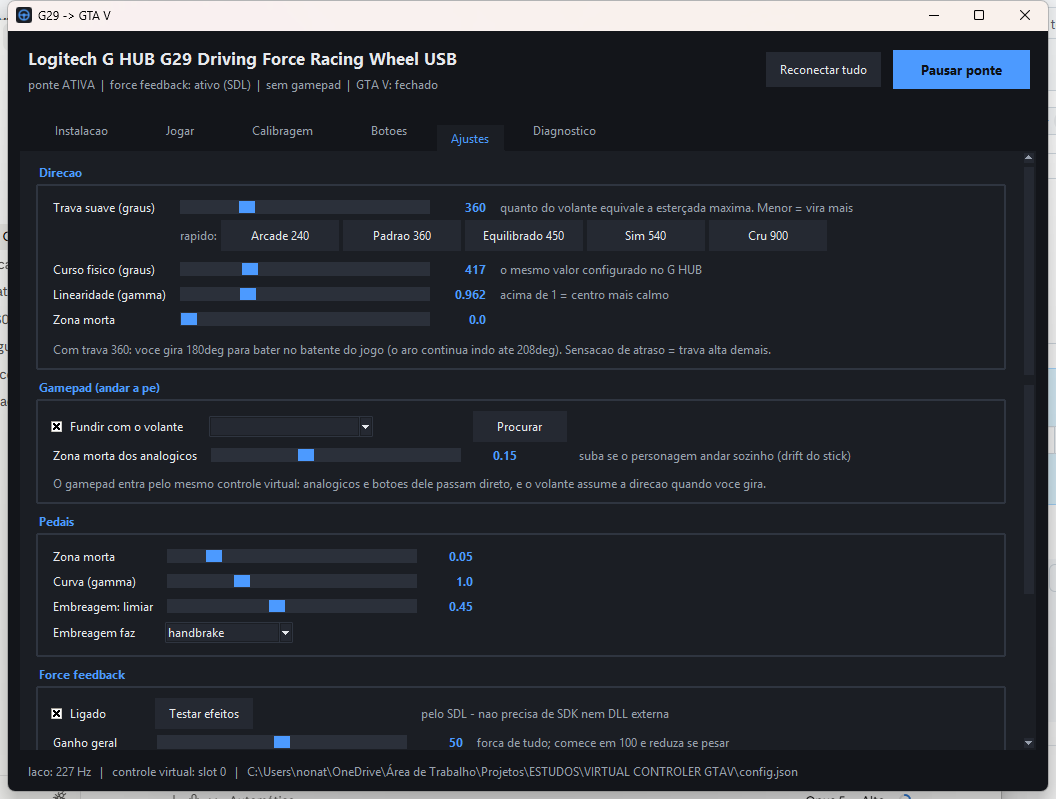
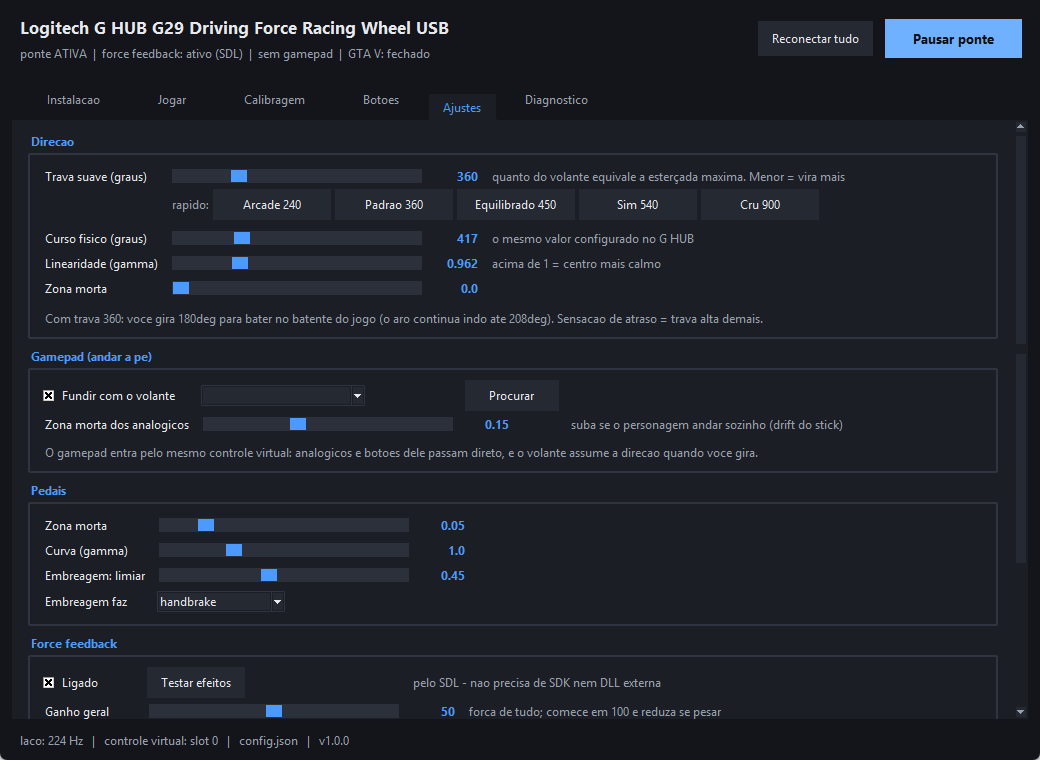
Versao 1.0.0: pacote baixavel e capturas limpas
- numero de versao no codigo (VERSAO), no titulo da janela, no rodape e na
  aba Instalacao; o zip passa a se chamar pela versao em vez da data, para
  quem baixa saber se tem a mais nova
- o zip e gerado dentro do projeto e versionado, ficando baixavel direto
- capturas refeitas so com a area util, sem a barra de titulo do Windows
- rodape deixa de mostrar o caminho completo do config.json: ele carrega o
  nome de usuario do Windows, que acabava em captura de tela publica

diff --git a/g29_gui.py b/g29_gui.py
@@ -24,7 +24,7 @@ sys.path.insert(0, os.path.dirname(os.path.abspath(__file__)))
 
 from g29_gtav import (  # noqa: E402
     BUTTON_NAMES, CONFIG_PATH, DEFAULT_CONFIG, Gamepad, SdlFFB, VirtualPad,
-    Wheel, carregar_estado, clamp, gravar_estado, inicio_do_processo,
+    VERSAO, Wheel, carregar_estado, clamp, gravar_estado, inicio_do_processo,
     deduzir_repouso, graus_girados, janela_do_jogo, joystick_conectado,
     load_config, map_pedal, map_steering, save_config, xinput_lib, xinput_read,
     xinput_slots,
@@ -900,7 +900,7 @@ class PainelBotoes:
 class App(tk.Tk):
     def __init__(self):
         super().__init__()
-        self.title("G29 -> GTA V")
+        self.title(f"Virtual Controller GTA V  v{VERSAO}")
         self.minsize(900, 560)
         self.configure(bg=COR_JANELA)
         self._aplicar_icone()
@@ -1142,6 +1142,10 @@ class App(tk.Tk):
         pagina = AreaRolavel(self.abas)
         self.abas.add(pagina, text="  Instalacao  ")
         aba = pagina.interno
+
+        ttk.Label(aba, style="Dica.TLabel",
+                  text=f"Virtual Controller GTA V - versao {VERSAO}"
+                  ).pack(anchor="w", pady=(0, 8))
 
         grupo = ttk.LabelFrame(aba, text=" Situacao deste computador ",
                                padding=(14, 10))
@@ -2033,9 +2037,11 @@ class App(tk.Tk):
         elif time.time() >= getattr(self, "_status_ate", 0):
             slot = self.worker.slot_nosso
             onde = f"slot {slot}" if slot is not None else "sem controle"
+            # so o nome do arquivo: o caminho completo carrega o nome de
+            # usuario do Windows, e isso acaba em capturas de tela publicas
             self.var_status.set(
                 f"laco: {inst['hz']:.0f} Hz   |   controle virtual: {onde}"
-                f"   |   {CONFIG_PATH}")
+                f"   |   {os.path.basename(CONFIG_PATH)}   |   v{VERSAO}")
 
         self._id_tick = self.after(33, self._tick)
 

diff --git a/empacotar.py b/empacotar.py
@@ -18,9 +18,10 @@ from __future__ import annotations
 import os
 import sys
 import zipfile
-from datetime import date
 
 AQUI = os.path.dirname(os.path.abspath(__file__))
+sys.path.insert(0, AQUI)
+from g29_gtav import VERSAO  # noqa: E402
 
 # Um atalho so. Os .bat numerados (instalar, calibrar, jogar) saiam do pacote
 # de proposito: quatro arquivos na pasta confundem quem nao e tecnico, e nao ha
@@ -45,8 +46,12 @@ def main() -> int:
         return 1
 
     pasta = "VIRTUAL CONTROLER GTAV"
-    nome = f"{pasta} {date.today():%Y-%m-%d}.zip"
-    destino = os.path.join(os.path.dirname(AQUI), nome)
+    # versao no nome, nao data: quem baixa precisa saber se tem a versao mais
+    # nova, e uma data nao diz isso sem ir conferir o repositorio
+    nome = f"{pasta} v{VERSAO}.zip"
+    # dentro do proprio projeto: assim o zip e versionado junto e fica
+    # baixavel direto pelo GitHub, sem depender de anexo de release
+    destino = os.path.join(AQUI, nome)
 
     with zipfile.ZipFile(destino, "w", zipfile.ZIP_DEFLATED) as z:
         for arquivo in INCLUIR:

diff --git a/g29_gtav.py b/g29_gtav.py
@@ -34,6 +34,8 @@ try:
 except Exception:
     pass
 
+VERSAO = "1.0.0"
+
 HERE = os.path.dirname(os.path.abspath(__file__))
 CONFIG_PATH = os.path.join(HERE, "config.json")
 

diff --git a/README.md b/README.md
@@ -11,9 +11,18 @@ arquivo do jogo.
 mas suporte a XInput excelente — então a aplicação lê o volante e cria um
 controle de Xbox virtual, que o jogo enxerga como um gamepad comum.
 
-> **Comece por aqui:** baixe o projeto, dê um duplo clique em
-> **`DASHBOARD-GTAV.bat`** e siga a aba *Instalação*. Ela instala as
-> dependências, o driver do controle virtual e guia a calibragem.
+## Baixar
+
+**[⬇ Baixar a versão 1.0.0 (.zip)](https://github.com/GuiRios/Logitech-Virtual-Controller-Steering-Wheel-for-GTA-V/raw/main/VIRTUAL%20CONTROLER%20GTAV%20v1.0.0.zip)**
+
+Descompacte em qualquer pasta e dê um duplo clique em **`DASHBOARD-GTAV.bat`**.
+A aba *Instalação* cuida do resto: instala as dependências, o driver do controle
+virtual e guia a calibragem.
+
+A única coisa que precisa estar no computador antes é o
+[Python 3.9+ 64 bits](https://www.python.org/downloads/) — marque
+*Add Python to PATH* na primeira tela do instalador. Se faltar, o próprio
+atalho avisa e oferece abrir a página.
 
 ## Como funciona
 
